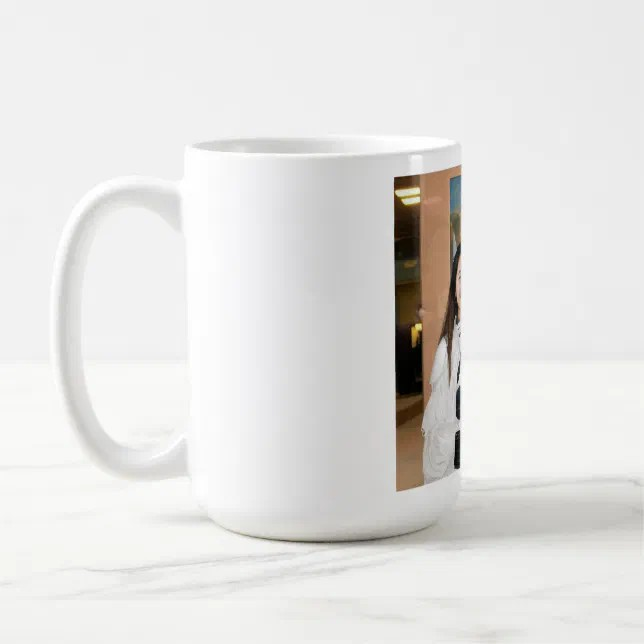
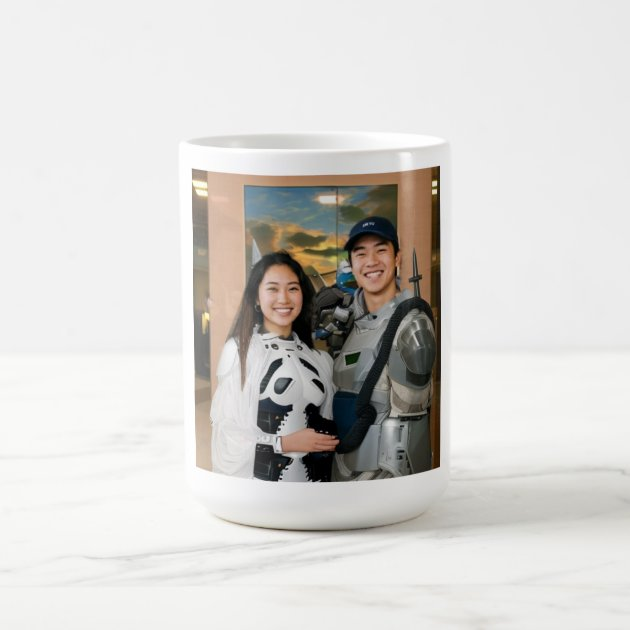
Add AGENTS.md documentation and Zazzle image auto-update script
- Add AGENTS.md with project overview, repository layout, and Zazzle image update workflow
- Add scripts/update_zazzle_images.py to fetch latest product images from Zazzle og:image meta tags
- Update all Zazzle product images (canvas, print, t-shirt, mugs) with latest versions
- Fix mugs product URL in kartoonify.html (256042457500954588 → 256886499100142319)

Changed region(s): [[0.0905, 0.2413, 0.7238, 0.7841], [0.3921, 0.8143, 0.5127, 0.8444], [0.2714, 0.7841, 0.3317, 0.8143]]

diff --git a/kartoonify.html b/kartoonify.html
@@ -208,7 +208,7 @@
             <span class="zazzle-tag">T-Shirt</span>
             <span class="zazzle-price">From $19</span>
           </a>
-          <a class="zazzle-card" href="https://www.zazzle.com/kartoonify_mugs-256042457500954588" target="_blank" rel="noopener sponsored">
+          <a class="zazzle-card" href="https://www.zazzle.com/kartoonify_mugs-256886499100142319" target="_blank" rel="noopener sponsored">
             <img src="assets/images/kartoonify/zazzle/mugs.jpg" alt="Kartoonify cartoon mug" loading="lazy" />
             <span class="zazzle-tag">Mug</span>
             <span class="zazzle-price">From $17</span>

diff --git a/scripts/update_zazzle_images.py b/scripts/update_zazzle_images.py
@@ -1,0 +1,194 @@
+#!/usr/bin/env python3
+"""
+Download the latest product images from Zazzle for the Kartoonify web page.
+
+This script:
+  1. Fetches each Zazzle product page using Python's urllib (bypasses Zazzle's
+     bot detection that blocks curl/wget).
+  2. Extracts the og:image meta tag (the main product preview image).
+  3. Downloads the image and saves it to the local assets directory.
+
+The product URLs and local file mappings are defined in the PRODUCTS dict below,
+which mirrors the Zazzle cards in kartoonify.html (the "Make It Real" section).
+
+Usage:
+    python3 scripts/update_zazzle_images.py
+
+Run from the repository root.  Images are saved to
+assets/images/kartoonify/zazzle/.
+"""
+
+import urllib.request
+import gzip
+import re
+import os
+import sys
+import hashlib
+
+# ---------------------------------------------------------------------------
+# Configuration: Zazzle product URLs  →  local image filenames
+# Mirrors the <a class="zazzle-card" href="..."> entries in kartoonify.html
+# ---------------------------------------------------------------------------
+PRODUCTS = [
+    {
+        "name": "Canvas Print",
+        "url": "https://www.zazzle.com/kartoonify_canvas_print-256438174979296552",
+        "local": "canvas.jpg",
+    },
+    {
+        "name": "Poster Print",
+        "url": "https://www.zazzle.com/kartoonify_print-256875841075244420",
+        "local": "print.jpg",
+    },
+    {
+        "name": "T-Shirt",
+        "url": "https://www.zazzle.com/kartoonify_t_shirt-256470504046263326",
+        "local": "t-shirt.jpg",
+    },
+    {
+        "name": "Mugs",
+        "url": "https://www.zazzle.com/kartoonify_mugs-256886499100142319",
+        "local": "mugs.jpg",
+    },
+]
+
+# Directory where images are saved (relative to repo root)
+IMAGE_DIR = os.path.join("assets", "images", "kartoonify", "zazzle")
+
+# HTTP headers that mimic a real browser — required to bypass Zazzle's
+# bot detection (curl/wget get a 403 "Are you a Robot?" page).
+BROWSER_HEADERS = {
+    "User-Agent": (
+        "Mozilla/5.0 (Macintosh; Intel Mac OS X 10_15_7) "
+        "AppleWebKit/537.36 (KHTML, like Gecko) "
+        "Chrome/120.0.0.0 Safari/537.36"
+    ),
+    "Accept": "text/html,application/xhtml+xml,application/xml;q=0.9,*/*;q=0.8",
+    "Accept-Language": "en-US,en;q=0.9",
+    "Accept-Encoding": "gzip",
+}
+
+
+def fetch_page(url):
+    """Fetch a URL and return the decoded HTML text."""
+    req = urllib.request.Request(url, headers=BROWSER_HEADERS)
+    resp = urllib.request.urlopen(req, timeout=30)
+    data = resp.read()
+    if resp.headers.get("Content-Encoding") == "gzip":
+        data = gzip.decompress(data)
+    return data.decode("utf-8", errors="replace")
+
+
+def extract_og_image(html):
+    """Extract the og:image URL from the page's meta tags.
+
+    Zazzle product pages include:
+        <meta property="og:image" content="https://rlv.zcache.com/..._630.jpg?...">
+    The query string (?rlvnet=1&view_padding=...) is stripped so we get the
+    clean image URL.
+    """
+    # Try property="og:image" first
+    match = re.search(
+        r'<meta\s+property=["\']og:image["\']\s+content=["\']([^"\']+)["\']',
+        html,
+    )
+    if not match:
+        # Some pages use content before property
+        match = re.search(
+            r'<meta\s+content=["\']([^"\']+)["\']\s+property=["\']og:image["\']',
+            html,
+        )
+    if not match:
+        return None
+    url = match.group(1)
+    # Strip HTML entities and query string
+    url = url.replace("&", "&")
+    # Remove query parameters — we want the raw image
+    url = url.split("?")[0]
+    return url
+
+
+def download_image(url, dest_path):
+    """Download an image URL to dest_path. Returns True on success."""
+    headers = dict(BROWSER_HEADERS)
+    headers["Accept"] = "image/webp,image/apng,image/*,*/*;q=0.8"
+    req = urllib.request.Request(url, headers=headers)
+    resp = urllib.request.urlopen(req, timeout=30)
+    data = resp.read()
+    if resp.headers.get("Content-Encoding") == "gzip":
+        data = gzip.decompress(data)
+    with open(dest_path, "wb") as f:
+        f.write(data)
+    return len(data)
+
+
+def file_hash(path):
+    """Return MD5 hash of a file for change detection."""
+    with open(path, "rb") as f:
+        return hashlib.md5(f.read()).hexdigest()
+
+
+def main():
+    os.makedirs(IMAGE_DIR, exist_ok=True)
+    updated = []
+    skipped = []
+
+    for product in PRODUCTS:
+        name = product["name"]
+        url = product["url"]
+        local = product["local"]
+        dest = os.path.join(IMAGE_DIR, local)
+
+        print(f"\n{'='*60}")
+        print(f"Product: {name}")
+        print(f"URL:     {url}")
+        print(f"Local:   {dest}")
+
+        # Step 1: Fetch the product page
+        try:
+            html = fetch_page(url)
+        except Exception as e:
+            print(f"  ERROR fetching page: {e}")
+            continue
+
+        if "Are you Human or a Robot" in html:
+            print("  ERROR: Blocked by Zazzle bot detection")
+            continue
+
+        # Step 2: Extract the og:image URL
+        og_image = extract_og_image(html)
+        if not og_image:
+            print("  ERROR: Could not find og:image meta tag")
+            continue
+        print(f"  og:image: {og_image}")
+
+        # Step 3: Download the image
+        old_hash = file_hash(dest) if os.path.exists(dest) else None
+        try:
+            size = download_image(og_image, dest)
+        except Exception as e:
+            print(f"  ERROR downloading image: {e}")
+            continue
+
+        new_hash = file_hash(dest)
+        print(f"  Downloaded {size} bytes")
+
+        if old_hash == new_hash:
+            print(f"  → Unchanged (image is the same)")
+            skipped.append(name)
+        else:
+            print(f"  → UPDATED (image changed)")
+            updated.append(name)
+
+    # Summary
+    print(f"\n{'='*60}")
+    print(f"SUMMARY")
+    print(f"  Updated: {len(updated)}  {[u for u in updated]}")
+    print(f"  Unchanged: {len(skipped)}  {[s for s in skipped]}")
+    print(f"{'='*60}")
+
+    return 0 if not updated else 0  # always success if we got this far
+
+
+if __name__ == "__main__":
+    sys.exit(main())

diff --git a/AGENTS.md b/AGENTS.md
@@ -1,0 +1,95 @@
+# AGENTS.md — Pocket AI Labs Website
+
+Guidance for AI agents (Devin, Hermes, etc.) working on this repository.
+
+## Project Overview
+
+Static website for Pocket AI Labs, deployed to GitHub Pages via `.github/workflows/pages.yml`.
+No build step — HTML/CSS/JS is served as-is. Push to `main` triggers deployment.
+
+## Repository Layout
+
+```
+.
+├── index.html              # Landing page
+├── kartoonify.html         # Kartoonify product page (Zazzle "Make It Real" section)
+├── smartreceipts.html     # SmartReceipts product page
+├── terms.html              # Terms of service
+├── kartoonify.css          # Kartoonify page styles
+├── css/                    # Shared styles
+├── js/                     # Shared JavaScript
+├── assets/images/          # Image assets
+│   └── kartoonify/zazzle/  # Zazzle product preview images
+├── scripts/                # Maintenance scripts
+│   └── update_zazzle_images.py
+└── .github/workflows/      # GitHub Pages deployment
+```
+
+## Zazzle Product Images — Update Process
+
+The Kartoonify page (`kartoonify.html`) has a "Make It Real" section that links to
+Zazzle products and displays preview images stored locally in
+`assets/images/kartoonify/zazzle/`.
+
+### How to update the Zazzle product images
+
+Run the update script from the repository root:
+
+```bash
+python3 scripts/update_zazzle_images.py
+```
+
+This script:
+1. Fetches each Zazzle product page using Python's `urllib` (which bypasses
+   Zazzle's bot detection that blocks `curl`/`wget` with a 403 "Robot" page).
+2. Extracts the `og:image` meta tag from the page HTML — this is Zazzle's
+   canonical product preview image (630×630 JPEG hosted on `rlv.zcache.com`).
+3. Downloads the image and saves it to `assets/images/kartoonify/zazzle/`,
+   overwriting the existing file.
+4. Reports which images changed (MD5 hash comparison) vs. which were unchanged.
+
+### Product URL → local file mapping
+
+The mapping is defined in `scripts/update_zazzle_images.py` (the `PRODUCTS` list)
+and mirrors the `<a class="zazzle-card">` entries in `kartoonify.html`:
+
+| Product       | Zazzle URL                                                        | Local file         |
+|---------------|-------------------------------------------------------------------|--------------------|
+| Canvas Print  | `https://www.zazzle.com/kartoonify_canvas_print-256438174979296552` | `canvas.jpg`       |
+| Poster Print  | `https://www.zazzle.com/kartoonify_print-256875841075244420`       | `print.jpg`        |
+| T-Shirt       | `https://www.zazzle.com/kartoonify_t_shirt-256470504046263326`     | `t-shirt.jpg`     |
+| Mugs          | `https://www.zazzle.com/kartoonify_mugs-256886499100142319`        | `mugs.jpg`         |
+
+The `selfieboard.jpg` image links to the Zazzle store page (not a specific
+product), so it is **not** auto-updated by the script. Update it manually if
+needed.
+
+### Why Python `urllib` and not `curl`?
+
+Zazzle's bot detection returns a 403 with an "Are you Human or a Robot?" page
+for `curl` and `wget` requests, even with browser-like `User-Agent` headers.
+Python's `urllib.request` with the same headers successfully fetches the full
+product page HTML (~500 KB). The exact reason is unclear (likely TLS
+fingerprinting or header ordering), but the method is reliable.
+
+### Adding a new Zazzle product
+
+1. Add the product to the `PRODUCTS` list in `scripts/update_zazzle_images.py`
+   with its Zazzle URL and desired local filename.
+2. Add a `<a class="zazzle-card">` entry in `kartoonify.html` (in the
+   `#zazzle-gallery` div) with the product URL and `<img>` pointing to the local
+   file.
+3. Run `python3 scripts/update_zazzle_images.py` to download the image.
+
+### After updating images
+
+- The HTML does **not** need to be edited if filenames stay the same — the
+  script overwrites files in place.
+- Commit the updated images: `git add assets/images/kartoonify/zazzle/ && git commit`
+- Push to `main` to deploy via GitHub Pages.
+
+## Verification
+
+- `python3 scripts/update_zazzle_images.py` — downloads latest Zazzle images
+- Open `kartoonify.html` in a browser to visually verify the "Make It Real" section
+- `file assets/images/kartoonify/zazzle/*.jpg` — verify images are valid JPEGs (630×630)
